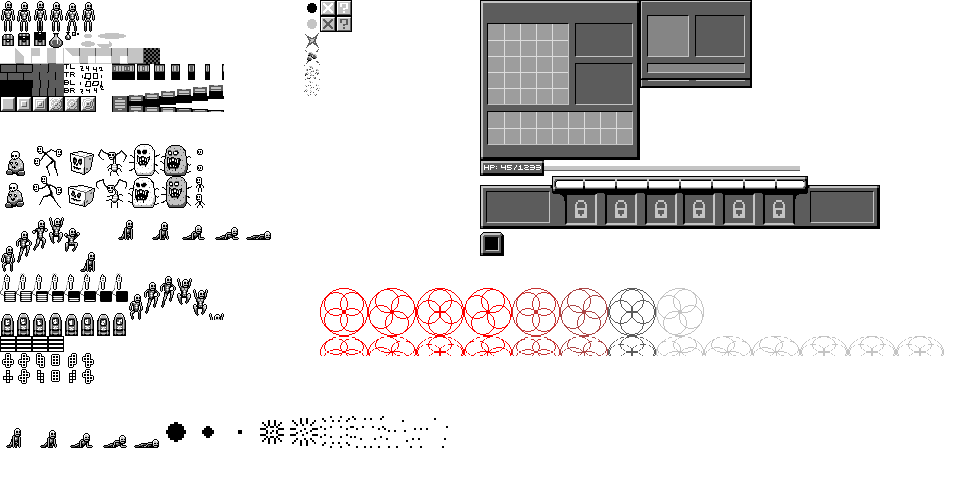
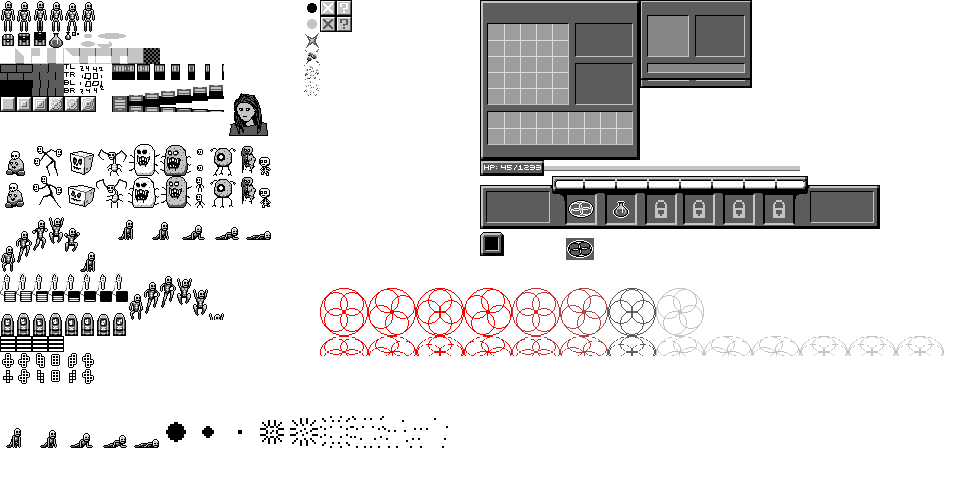
added potion use, hotbar cooldown graphics, and new enemy sprites

Changed region(s): [[0.2188, 0.1875, 0.2812, 0.4375], [0.5625, 0.4062, 0.6562, 0.5625]]

diff --git a/src/ui/ui.py b/src/ui/ui.py
@@ -151,10 +151,13 @@ class HealthBarPanel:
         self._top_img = None
         self._bar_img = None
         self._floating_bars = []  # list of [img, duration]
+        self._cooldown_imgs = [None] * 6
+        self._potion_text = None
+        self._num_potions = -1
         self._float_dur = 30
         self._float_height = 30
 
-    def update_images(self, gs, cur_hp, max_hp, new_damage, new_healing):
+    def update_images(self, gs, cur_hp, max_hp, new_damage, new_healing, cooldowns):
         if self._top_img is None:
             self._top_img = ImageBundle(spriteref.status_bar_base, 0, 0,
                                         layer=spriteref.UI_0_LAYER, scale=2)
@@ -194,6 +197,22 @@ class HealthBarPanel:
 
         self._bar_img = self._bar_img.update(new_model=bar_sprite, new_x=bar_x, new_y=y, new_color=color)
 
+        for i in range(0, len(cooldowns)):
+            if cooldowns[i] < 1.0:
+                if self._cooldown_imgs[i] is None:
+                    self._cooldown_imgs[i] = ImageBundle.new_bundle(spriteref.UI_0_LAYER, scale=2)
+                cd_x = x + 87 * 2 + 40 * 2 * i
+                cd_y = y + 19 * 2
+                cd_img = spriteref.get_cooldown_img(cooldowns[i])
+                self._cooldown_imgs[i] = self._cooldown_imgs[i].update(new_model=cd_img, new_x=cd_x, new_y=cd_y)
+
+        if self._potion_text is None:
+            pot_img = TextImage(0, 0, str(self._num_potions), spriteref.UI_0_LAYER)
+            pot_x = x + 155*2 - pot_img.size()[0] - 4
+            pot_y = y + 47*2 - pot_img.size()[1] - 4
+            pot_color = (1, 1, 1) if self._num_potions > 0 else (1, 0.5, 0.5)
+            self._potion_text = pot_img.update(new_x=pot_x, new_y=pot_y, new_color=pot_color)
+
     def update(self, world, gs, input_state, render_eng):
         p_state = gs.player_state()
         new_dmg, new_healing = p_state.damage_and_healing_last_tick()
@@ -207,7 +226,22 @@ class HealthBarPanel:
                     new_bars.append([fb[0], fb[1] + 1])
             self._floating_bars = new_bars
 
-        self.update_images(gs, p_state.hp(), p_state.max_hp(), new_dmg, new_healing)
+        cooldowns = [p_state.get_cooldown_progress(i) for i in range(0, 6)]
+        for i in range(0, 6):
+            if cooldowns[i] == 1.0 and self._cooldown_imgs[i] is not None:
+                render_eng.remove(self._cooldown_imgs[i])
+                self._cooldown_imgs[i] = None
+
+        n_potions = p_state.num_potions()
+
+        if n_potions != self._num_potions:
+            self._num_potions = n_potions
+            if self._potion_text is not None:
+                for bun in self._potion_text.all_bundles():
+                    render_eng.remove(bun)
+                self._potion_text = None
+
+        self.update_images(gs, p_state.hp(), p_state.max_hp(), new_dmg, new_healing, cooldowns)
 
         for bun in self.all_bundles():
             render_eng.update(bun)
@@ -219,6 +253,12 @@ class HealthBarPanel:
             yield self._top_img
         for floating_bar in self._floating_bars:
             yield floating_bar[0]
+        if self._potion_text is not None:
+            for bun in self._potion_text.all_bundles():
+                yield bun
+        for cd_img in self._cooldown_imgs:
+            if cd_img is not None:
+                yield cd_img
 
 
 class TextImage:

diff --git a/src/game/actorstate.py b/src/game/actorstate.py
@@ -202,6 +202,10 @@ class PlayerState(ActorState):
         self._default_attack = attacks.GROUND_POUND
         self.attack_state.set_attack(self._default_attack)
 
+        self._potion_cooldown = 1  # set whenever a potion is activated
+        self._potion_tick_count = self._potion_cooldown
+        self._num_potions = 5
+
         self._damage_last_tick = 0
         self._healing_last_tick = 0
 
@@ -219,6 +223,20 @@ class PlayerState(ActorState):
         else:
             return ActorState.hp(self)
 
+    def num_potions(self):
+        return self._num_potions
+
+    def get_cooldown_progress(self, slot_num):
+        if slot_num == 0:
+            if self.attack_state.is_active():
+                return self.attack_state.total_progress()
+            else:
+                return 1.0
+        elif slot_num == 1:
+            return Utils.bound(self._potion_tick_count / self._potion_cooldown, 0, 1)
+        else:
+            return 1.0
+
     def inventory(self):
         return self._inventory
 
@@ -232,8 +250,7 @@ class PlayerState(ActorState):
         print("picked up {}".format(pickup_entity))
 
         if pickup_entity.is_potion():
-            # TODO - actual potions
-            self.do_heal(20)
+            self._num_potions += 1
 
     def damage_and_healing_last_tick(self):
         return self._damage_last_tick, self._healing_last_tick
@@ -257,6 +274,24 @@ class PlayerState(ActorState):
         death_anim.set_vel(Utils.mult(self.current_knockback, 2), fric=0.90, collides=True)
 
         world.add(death_anim)
+
+    def _can_use_potion(self):
+        return (self._num_potions > 0 and
+                self._potion_tick_count >= self._potion_cooldown and
+                self.hp() < self.max_hp())
+
+    def _handle_potions(self, try_to_use):
+        if self._potion_tick_count < self._potion_cooldown:
+            self._potion_tick_count += 1
+
+        if try_to_use and self._can_use_potion():
+            pot_heal = 10 + self.stat_value(StatType.POTION_HEALING)
+            self.do_heal(pot_heal)
+            self._num_potions -= 1
+
+            pot_cd = round(max(1, 180 * (1 - 0.01 * self.stat_value(StatType.POTION_COOLDOWN))))
+            self._potion_cooldown = pot_cd
+            self._potion_tick_count = 0
 
     def stat_value(self, stat_type):
         """
@@ -305,6 +340,8 @@ class PlayerState(ActorState):
             self._handle_death(player_entity, world)
             self._damage_last_tick = 0
             return
+
+        self._handle_potions(input_state.was_pressed(inputs.POTION))
 
         if gs.tick_counter % 60 == 0:
             regen = self.stat_value(StatType.LIFE_REGEN)

diff --git a/src/game/spriteref.py b/src/game/spriteref.py
@@ -73,9 +73,9 @@ enemy_flappum_all = [make(96, 144, 32, 32), make(96, 176, 32, 32)]
 enemy_muncher_all = [make(128, 144, 32, 32), make(128, 176, 32, 32)]
 enemy_muncher_alt_all = [make(160, 144, 32, 32), make(160, 176, 32, 32)]
 enemy_small_trilla_all = [make(192, 176 + i * 16, 16, 16) for i in range(0, 2)]
-enemies_all = [enemy_glorple_all, enemy_trilla_all, enemy_dicel_all,
-               enemy_flappum_all, enemy_muncher_all, enemy_muncher_alt_all,
-               enemy_small_trilla_all]
+enemy_cyclops_all = [make(208, 144 + i * 32, 32, 32) for i in range(0, 2)]
+enemy_the_fallen_all = [make(240, 144 + i * 32, 16, 32) for i in range(0, 2)]
+enemy_skelekid_all = [make(256, 144 + i * 32, 16, 32) for i in range(0, 2)]
 
 floaty_guys = [make(192, 144 + i * 16, 16, 16) for i in range(0, 2)]
 
@@ -232,8 +232,21 @@ def _draw_ellipse(sheet, center, width, height, opacity):
 
 cooldown_overlays = []
 
+
 def get_cooldown_img(progress):
     return cooldown_overlays[int(progress * len(cooldown_overlays))]
+
+
+def _draw_cd_image(sheet, rect, prog, color):
+    c_x = rect[0] + rect[2] / 2
+    c_y = rect[1] + rect[3] / 2
+    for x in range(rect[0], rect[0] + rect[2]):
+        for y in range(rect[1], rect[1] + rect[3]):
+            if x % 2 == y % 2:
+                continue
+            angle_prog = (math.atan2(c_y - y, c_x - x) + math.pi) / (2 * math.pi)
+            if angle_prog > prog:
+                sheet.set_at((x, y), color)
 
 
 def build_spritesheet(raw_image):
@@ -368,6 +381,22 @@ def build_spritesheet(raw_image):
             draw_x += w
 
     draw_y += circle_art_heights[-1]
+
+    n_cooldowns = 20
+    cd_size = 28
+    cd_color = (255, 255, 255)  # (196, 196, 196)
+    print("drawing {} cooldown overlays...".format(n_cooldowns))
+
+    for i in range(0, n_cooldowns):
+        if draw_x + cd_size > sheet_size[0]:
+            draw_x = 0
+            draw_y += cd_size
+        rect = [draw_x, draw_y, cd_size, cd_size]
+        _draw_cd_image(sheet, rect, i / n_cooldowns, cd_color)
+        cooldown_overlays.append(make(*rect))
+        draw_x += cd_size
+
+    draw_y += cd_size
 
     for img in all_imgs:
         img.set_sheet_size(sheet_size)

diff --git a/src/game/enemies.py b/src/game/enemies.py
@@ -144,6 +144,8 @@ RAND_SPAWN_TEMPLATES = [EnemyTemplate("Muncher", spriteref.enemy_muncher_all, sp
                         EnemyTemplate("Dark Muncher", spriteref.enemy_muncher_alt_all, spriteref.large_shadow),
                         EnemyTemplate("Glorple", spriteref.enemy_glorple_all, spriteref.medium_shadow),
                         EnemyTemplate("Dicel", spriteref.enemy_dicel_all, spriteref.medium_shadow),
+                        EnemyTemplate("The Fallen", spriteref.enemy_the_fallen_all, spriteref.medium_shadow),
+                        EnemyTemplate("Cycloi", spriteref.enemy_cyclops_all, spriteref.large_shadow),
                         TEMPLATE_FLAPPUM,
                         TEMPLATE_TRILLA]
 

diff --git a/src/game/inputs.py b/src/game/inputs.py
@@ -10,6 +10,7 @@ INTERACT = [pygame.K_e]
 KILL = [pygame.K_k]
 ENTER = [pygame.K_RETURN]
 EXIT = [pygame.K_ESCAPE]
+POTION = [pygame.K_q]
 
 
 class InputState:

diff --git a/src/game/debug.py b/src/game/debug.py
@@ -1,1 +1,1 @@
-DEBUG = True
+DEBUG = False
